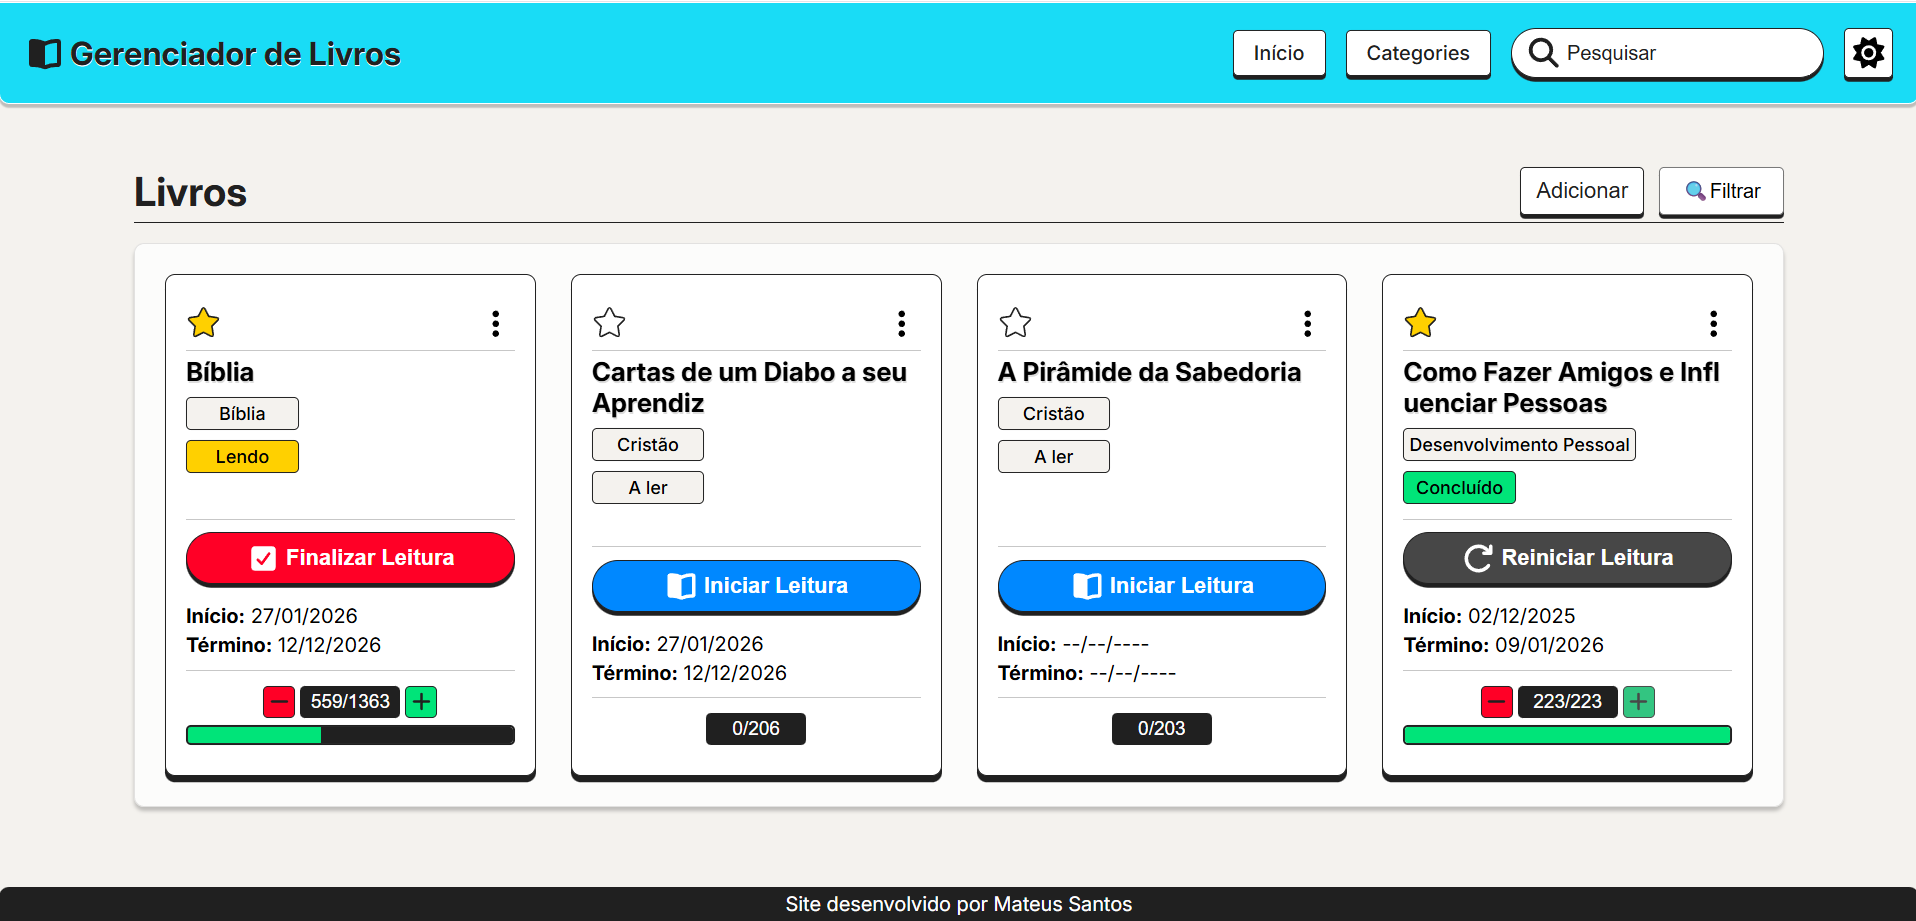
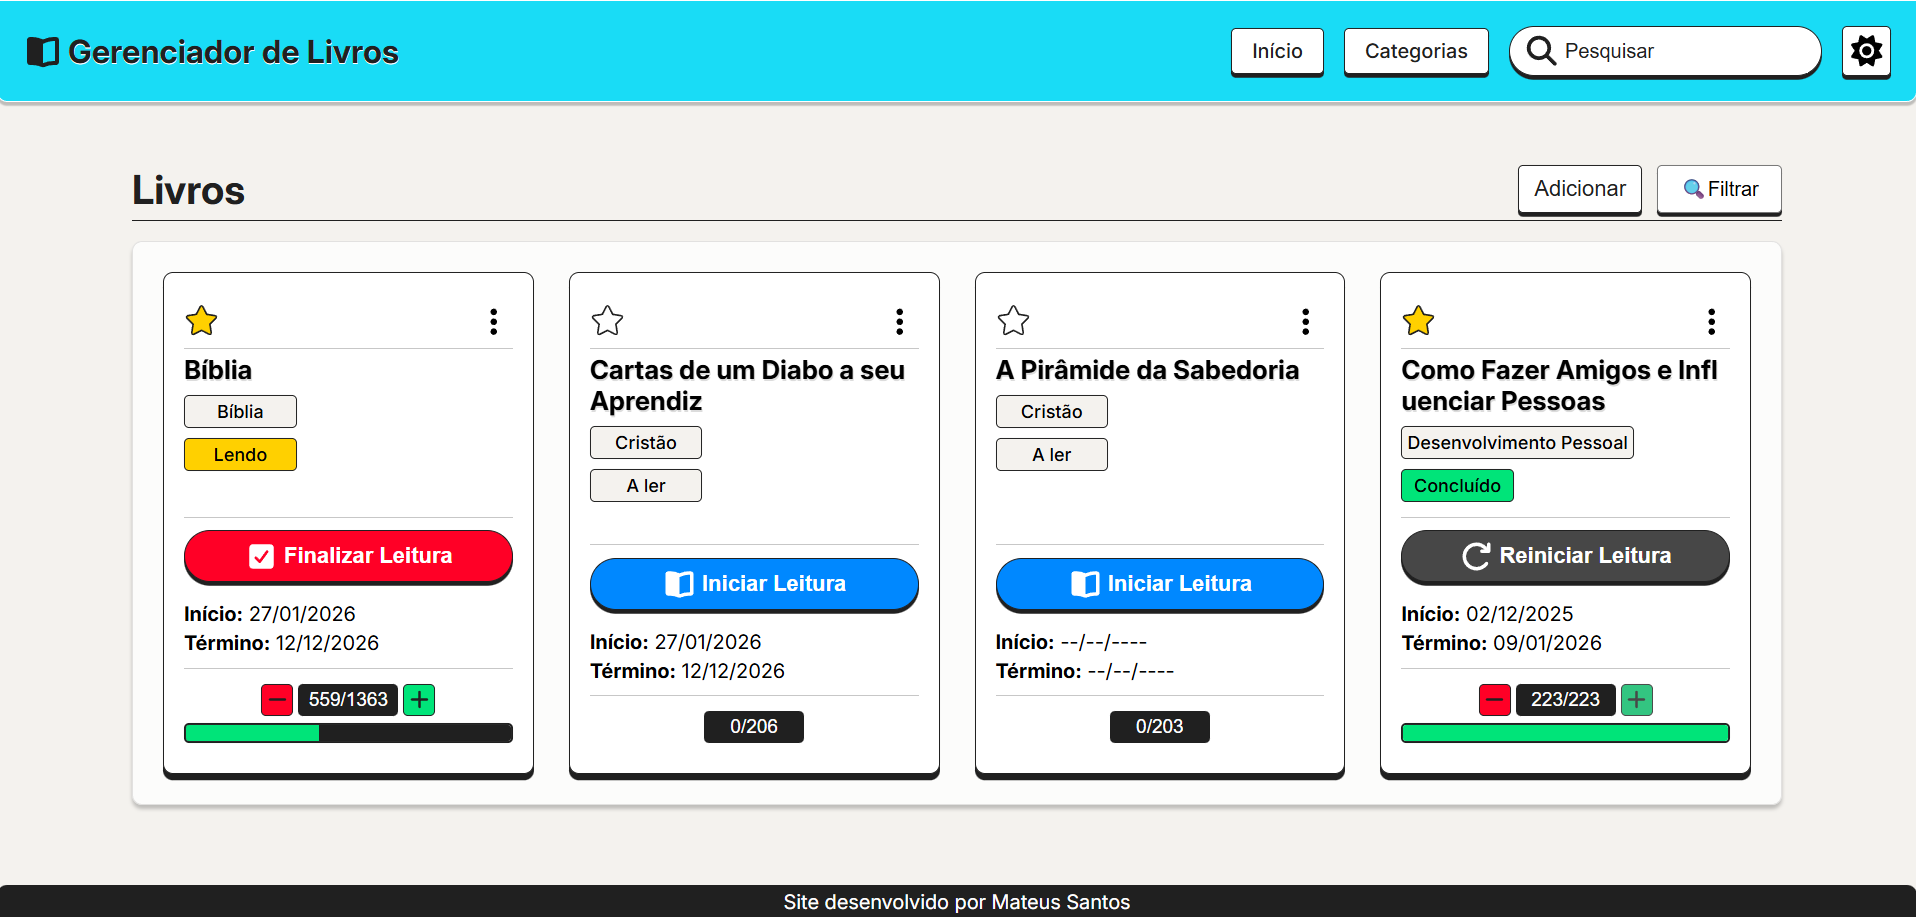
chore: final adjustments

diff --git a/src/shared/layout/Header/Header.tsx b/src/shared/layout/Header/Header.tsx
@@ -66,7 +66,7 @@ export const Header = () => {
 						</li>
 						<li className={styles.item}>
 							<Link className={`${styles.link} button_behavior`} to="/categories">
-								Categories
+								Categorias
 							</Link>
 						</li>
 					</ul>
